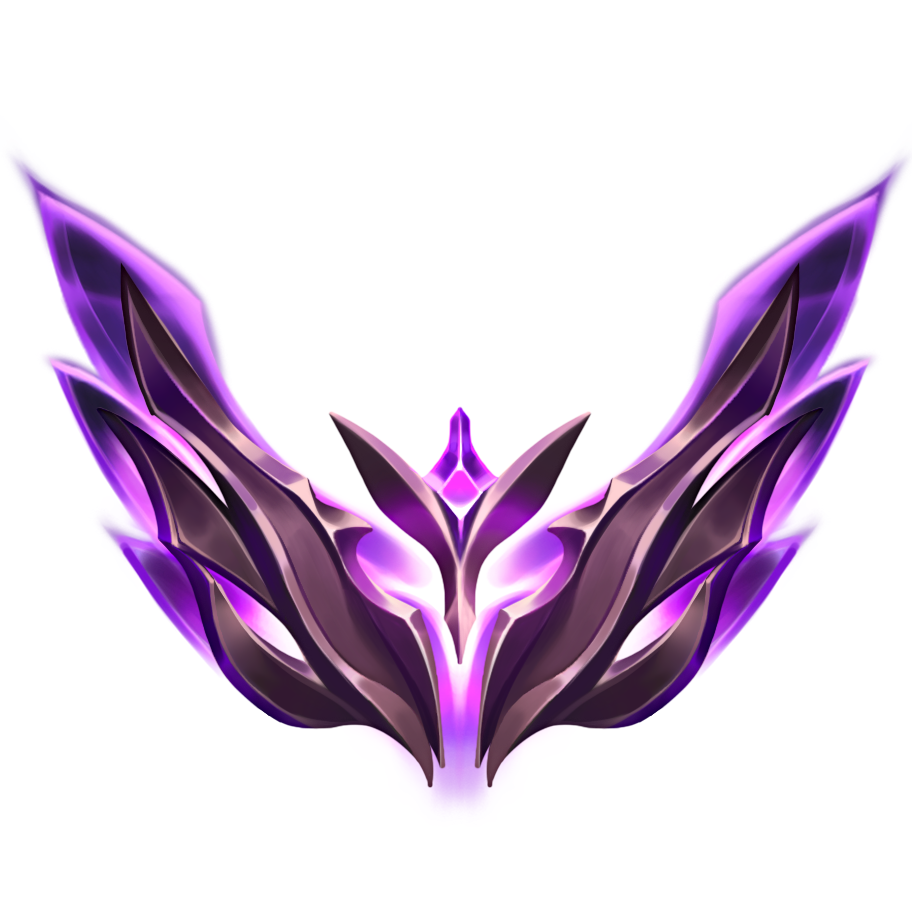
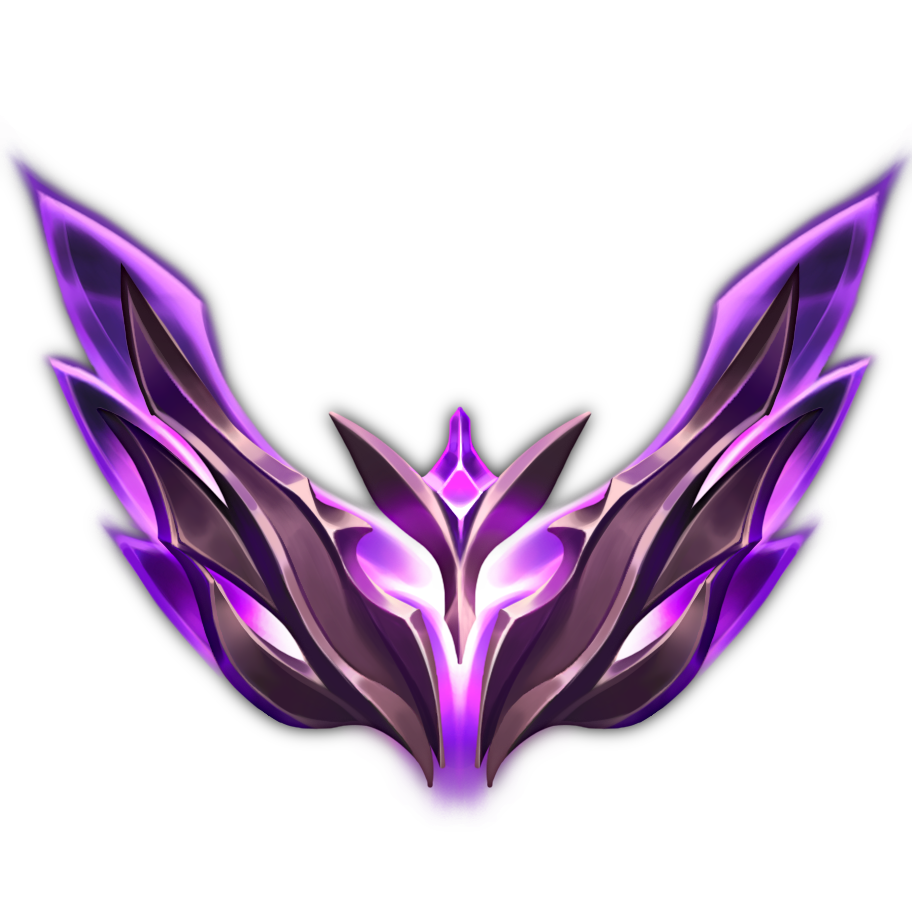
feat: style adjustments

diff --git a/league/scripts/EarlySeason.js b/league/scripts/EarlySeason.js
@@ -32,7 +32,7 @@ var socket;
 function connectWebSocket() {
     socket = new WebSocket(`wss://modserver-dedo.glitch.me?id=${id}`);
     // socket = new WebSocket(`ws://localhost:8080?id=${id}&type=${type}&channel=${channel}`);
-    
+
     setInterval(ping, 60000);
 
     socket.onopen = function () {
@@ -59,7 +59,7 @@ function connectWebSocket() {
         if (message === "pong") {
             return;
         }
-        
+
         const data = JSON.parse(message);
         const accounts = data.accounts;
 
@@ -68,8 +68,12 @@ function connectWebSocket() {
 
         var V9ELo = 0;
         var NNOELo = 0;
+        var besterSpieler = undefined;
 
         accounts.forEach(player => {
+            if (!besterSpieler || besterSpieler.combinedLP < player.combinedLP) {
+                besterSpieler = player;
+            }
             if (player.name === "Sola" || player.name === "Kutcher") {
                 V9ELo += player.combinedLP
                 generatePlayer(player.name, player.tier, player.rank, player.leaguePoints, "V9");
@@ -81,6 +85,14 @@ function connectWebSocket() {
 
         setELO("V9", V9ELo);
         setELO("NNO", NNOELo);
+
+        if (V9ELo > NNOELo) {
+            betterTeam("V9");
+        } else if (V9ELo < NNOELo) {
+            betterTeam("NNO");
+        }
+
+        coronation(besterSpieler.name);
     };
 }
 
@@ -90,6 +102,24 @@ function ping() {
 
 // Initialer Verbindungsaufbau
 connectWebSocket();
+
+function coronation(name) {
+    var existingImg = document.getElementById(name + "img");
+    var overlayImg = document.createElement('img');
+    overlayImg.src = rPath + "crown.png";
+    overlayImg.alt = 'Overlay Image';
+    overlayImg.style.position = 'absolute';
+    overlayImg.style.bottom = '0';
+    overlayImg.style.left = '0';
+    overlayImg.style.width = "70px"
+    overlayImg.style.height = "70px"
+    existingImg.appendChild(overlayImg);
+}
+
+function betterTeam(team) {
+    const eloP = document.getElementById(team + "ELO");
+    eloP.style.border = "2px solid rgba(0, 250, 0, 0.4)"
+}
 
 function setELO(team, LP) {
     var eloP = document.getElementById(team + "ELO");
@@ -101,9 +131,15 @@ const rPath = "../ressources/";
 function generatePlayer(playerName, eloSymbolSrc, rank, lpValue, team) {
     var playerDiv = document.createElement('div');
 
+    var imageDiv = document.createElement('div');
+    imageDiv.id = playerName + "img";
+    imageDiv.classList.add("profileImgDiv");
+
     var img1 = document.createElement('img');
+    img1.classList.add("profileImg");
     img1.src = rPath + playerName + ".png";
     img1.alt = '';
+    imageDiv.appendChild(img1);
 
     var pText = document.createElement('p');
     pText.textContent = playerName;
@@ -116,12 +152,16 @@ function generatePlayer(playerName, eloSymbolSrc, rank, lpValue, team) {
     eloImg.alt = '';
 
     var lpP = document.createElement('p');
-    lpP.textContent = rank + " " + lpValue + ' LP';
+    if (eloSymbolSrc !== "EMERALD" && eloSymbolSrc !== "DIAMOND") {
+        lpP.textContent = lpValue + ' LP';
+    } else {
+        lpP.textContent = rank + " " + lpValue + ' LP';
+    }
 
     eloDiv.appendChild(eloImg);
     eloDiv.appendChild(lpP);
 
-    playerDiv.appendChild(img1);
+    playerDiv.appendChild(imageDiv);
     playerDiv.appendChild(pText);
     playerDiv.appendChild(eloDiv);
 

diff --git a/league/style/EarlySeason.css b/league/style/EarlySeason.css
@@ -1,4 +1,77 @@
 img {
-    height: 100px;
+    height: 50px;
+    width: 50px;
+    -webkit-filter: drop-shadow(3px 3px 3px #222);
+    filter: drop-shadow(3px 3px 3px #222);
+}
+
+body {
+    font-family: 'Arial', sans-serif;
+    color: azure;
+    margin: 0;
+    font-weight: bold;
+    font-family: 'Signika', sans-serif;
+    background-color: white;
+}
+
+#display {
+    display: flex;
+    justify-content: center;
+    align-items: center;
+    margin: 30px;
+}
+
+#V9,
+#NNO {
+    display: flex;
+    text-align: center;
+    justify-content: center;
+    align-items: center;
+    border-radius: 20px;
+    flex-direction: column;
+}
+
+#VS {
+    font-size: 24px;
+    margin: 10px;
+}
+
+.TEAMELO {
+    font-size: 18px;
+    border-radius: 8px;
+    width: max-content;
+    padding: 2px;
+}
+
+#V9Player,
+#NNOPlayer {
+    display: flex;
+    justify-content: space-around;
+    margin-top: 5px;
+}
+
+#V9Player div,
+#NNOPlayer div {
     width: 100px;
+}
+
+.profileImg {
+    max-width: 100%;
+    height: auto;
+    border-radius: 50%;
+    box-shadow: 0 4px 8px rgba(0, 0, 0, 1.2);
+}
+
+.ELO {
+    margin-top: -9px;
+}
+
+p {
+    margin: 2px;
+    text-shadow: 0 3px 4px rgba(0, 0, 0, 1.8);
+}
+
+.profileImgDiv {
+    position: relative;
+    display: inline;
 }

diff --git a/league/html/EarlySeason.html b/league/html/EarlySeason.html
@@ -3,23 +3,22 @@
 
 <head>
     <title>Early Season Race</title>
+    <link rel="preconnect" href="https://fonts.googleapis.com">
+    <link rel="preconnect" href="https://fonts.gstatic.com" crossorigin>
+    <link href="https://fonts.googleapis.com/css2?family=Signika:wght@700&display=swap" rel="stylesheet">
     <link rel="stylesheet" href="../style/EarlySeason.css">
 </head>
 
 <body>
     <div id="display">
         <div id="V9">
-            <p class="TEAMELO" id="V9ELO">V9: 0 LP</p>
-            <div id="V9Player">
-
-            </div>
+            <div id="V9Player"></div>
+            <p class="TEAMELO" id="V9ELO">V9 0 LP</p>
         </div>
         <p id="VS">VS.</p>
         <div id="NNO">
-            <p class="TEAMELO" id="NNOELO">NNO: 0 LP</p>
-            <div id="NNOPlayer">
-
-            </div>
+            <div id="NNOPlayer"></div>
+            <p class="TEAMELO" id="NNOELO">NNO 0 LP</p>
         </div>
     </div>
     <script src="../scripts/EarlySeason.js"></script>
